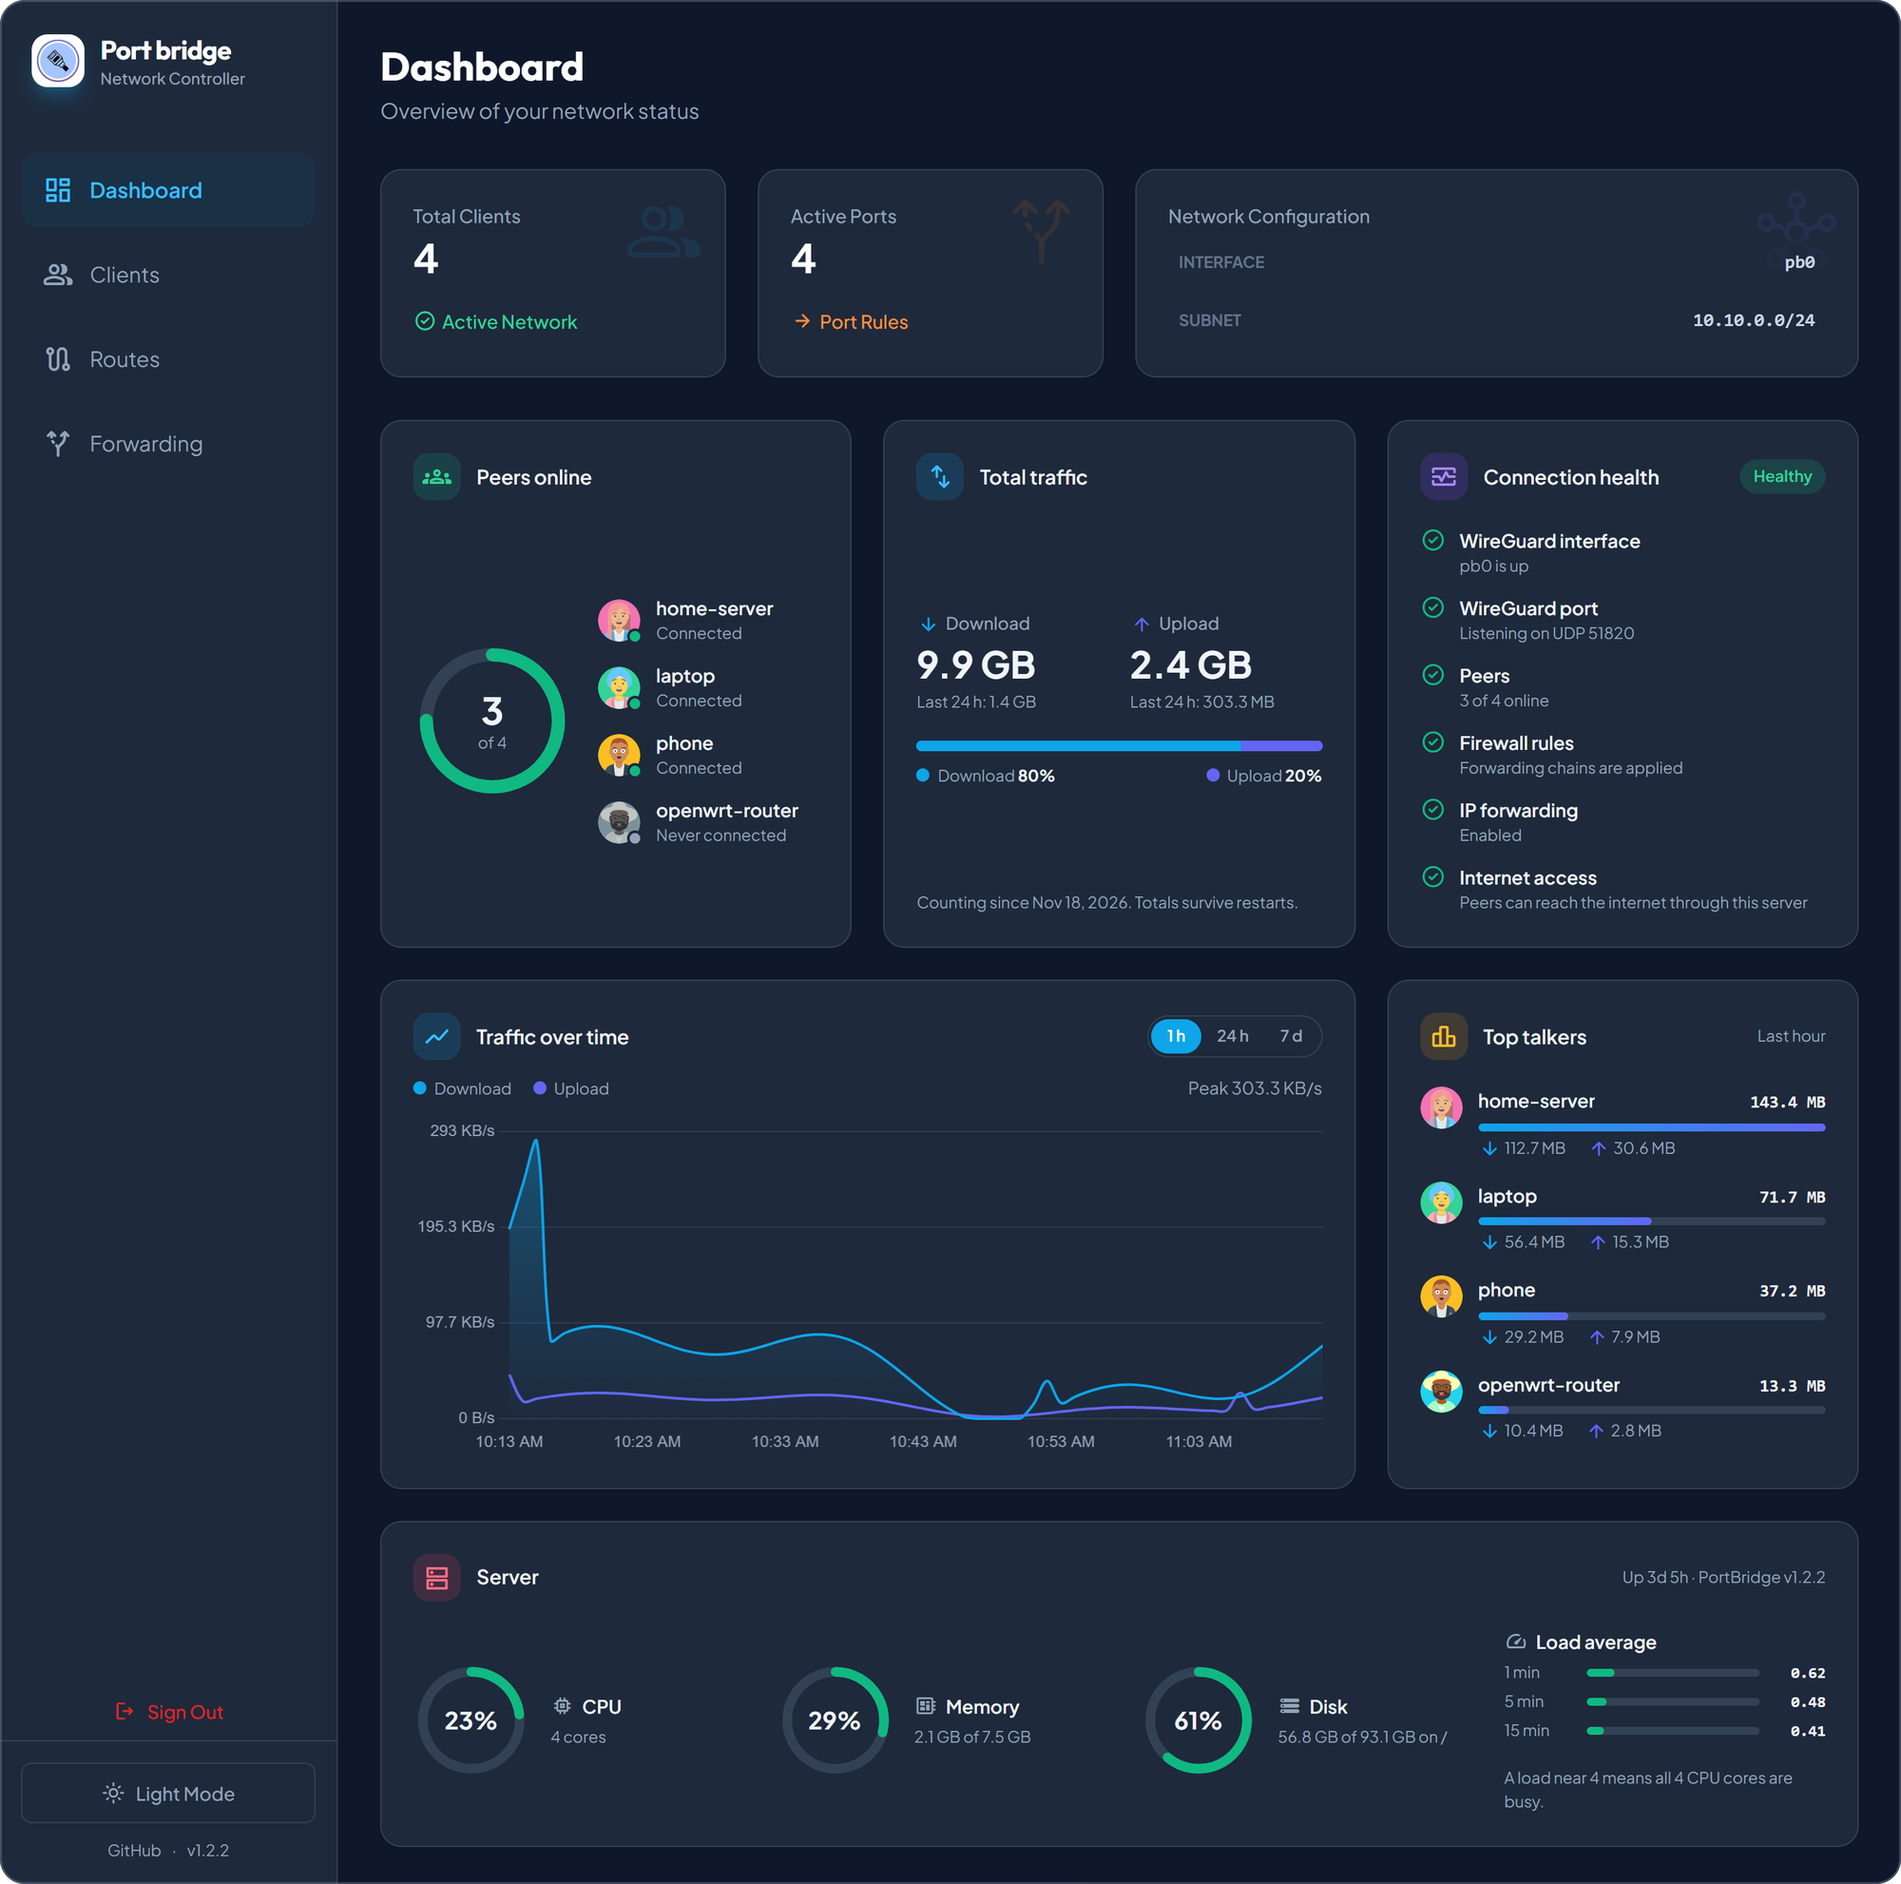
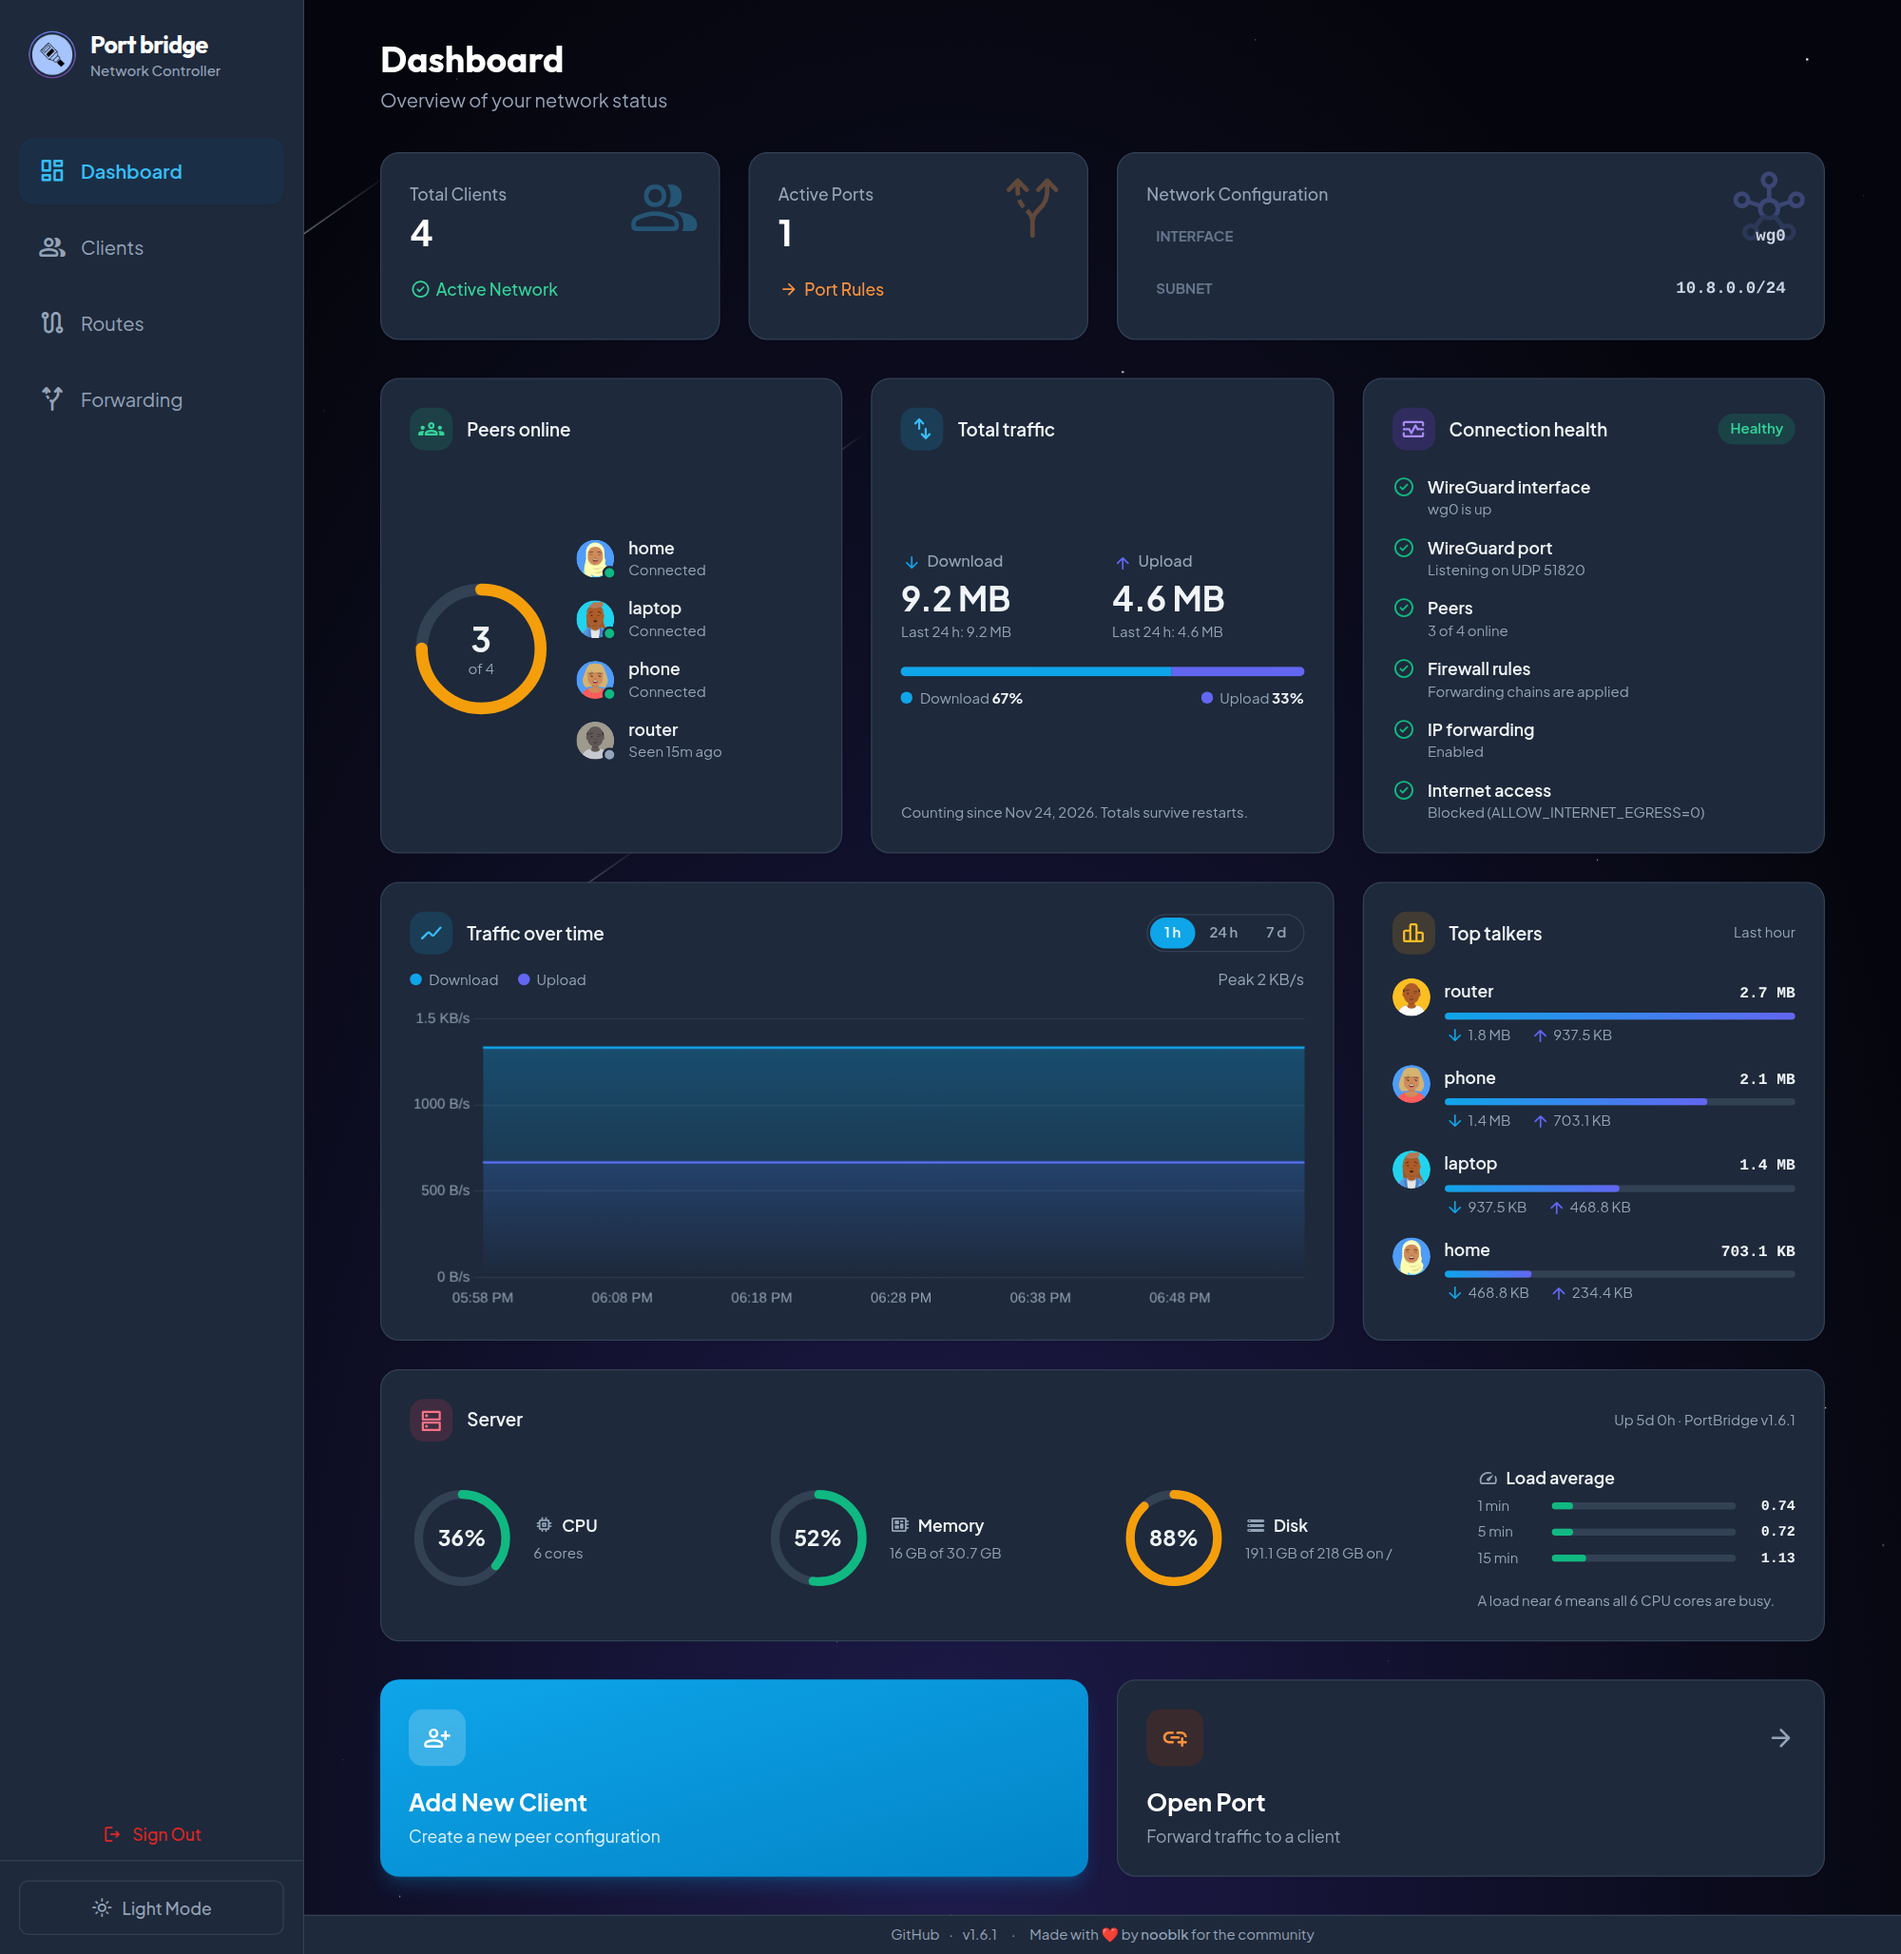
Refresh the README screenshots and generate them from the demo data (#15)
The screenshots showed the old look (no footer, no starry background). A new
script, npm run screenshots, builds the demo server (fixture peers, nothing real),
opens each page at 1600px wide, sizes the window to fit the whole page, and writes
the six images at 2000px wide, so they are easy to refresh after any UI change.
The footer shows the newest released version instead of the development build's
0.0.0-dev, and no "update available" banner appears.

Also notes the logo, tidy-up and screenshot changes in the 1.6.1 changelog.

diff --git a/frontend/scripts/screenshots.js b/frontend/scripts/screenshots.js
@@ -1,0 +1,146 @@
+#!/usr/bin/env node
+// Regenerates the README screenshots in images/screenshots/ from the demo server
+// (examples/e2e_server.rs: fixture peers, nothing real). Run from frontend/:
+//
+//   npm run screenshots
+//
+// Needs the browser from `npx playwright install chromium` and a Rust toolchain.
+// The pages are 1600 CSS pixels wide, saved at 2000 pixels (1.25x), as full
+// pages: the window is resized to fit each page's content, so nothing scrolls.
+const { spawn, execFileSync } = require("node:child_process");
+const fs = require("node:fs");
+const path = require("node:path");
+const { chromium } = require("@playwright/test");
+
+const ROOT = path.join(__dirname, "../..");
+const OUT = path.join(ROOT, "images/screenshots");
+const PORT = process.env.E2E_PORT || "43290";
+const BASE = `http://127.0.0.1:${PORT}`;
+const WIDTH = 1600;
+const SCALE = 2000 / WIDTH;
+
+/** The newest released version in the changelog, shown in the footer instead of "0.0.0-dev". */
+function latestVersion() {
+  const text = fs.readFileSync(path.join(ROOT, "CHANGELOG.md"), "utf8");
+  return /^## \[(\d+\.\d+\.\d+)\]/m.exec(text)?.[1] ?? "1.0.0";
+}
+
+/** Start the demo server and wait until it answers. Returns a function that stops it. */
+async function startServer() {
+  execFileSync("cargo", ["build", "--quiet", "--example", "e2e_server"], { cwd: ROOT, stdio: "inherit" });
+  const server = spawn(path.join(ROOT, "target/debug/examples/e2e_server"), [], {
+    cwd: ROOT,
+    env: { ...process.env, E2E_PORT: PORT },
+    stdio: "ignore",
+  });
+  for (let attempt = 0; attempt < 50; attempt += 1) {
+    try {
+      if ((await fetch(`${BASE}/login`)).ok) return () => server.kill();
+    } catch {
+      // Not listening yet.
+    }
+    await new Promise(resolve => setTimeout(resolve, 200));
+  }
+  server.kill();
+  throw new Error("The demo server did not start.");
+}
+
+/** Resize the window so the whole page fits with no scrolling, then let the layout settle. */
+async function fitToContent(page, contentSelector, extra = 0) {
+  await page.setViewportSize({ width: WIDTH, height: 3000 });
+  await page.waitForTimeout(300);
+  const height = await page.evaluate(
+    ([selector, padding]) => {
+      const content = document.querySelector(selector);
+      const footer = document.querySelector("footer");
+      return Math.ceil(content.getBoundingClientRect().height + (footer?.offsetHeight ?? 0) + padding);
+    },
+    [contentSelector, extra],
+  );
+  await page.setViewportSize({ width: WIDTH, height });
+  await page.waitForTimeout(700);
+}
+
+async function main() {
+  const version = latestVersion();
+  const stop = await startServer();
+  const browser = await chromium.launch({ channel: "chromium" });
+  try {
+    for (const scheme of ["light", "dark"]) {
+      const context = await browser.newContext({
+        viewport: { width: WIDTH, height: 900 },
+        deviceScaleFactor: SCALE,
+        colorScheme: scheme,
+      });
+      const page = await context.newPage();
+      // The demo server is a development build (0.0.0-dev), so answering with that
+      // same number means "nothing newer", and no "update available" banner shows.
+      await page.route("https://api.github.com/**", route =>
+        route.fulfill({
+          status: 200,
+          contentType: "application/json",
+          body: JSON.stringify({
+            tag_name: "v0.0.0",
+            html_url: "https://github.com/nooblk-98/portbridge/releases/tag/v0.0.0",
+            body: "",
+          }),
+        }),
+      );
+      await page.goto(`${BASE}/login`);
+      await page.getByPlaceholder("Enter admin password").fill("e2e-password");
+      await page.getByRole("button", { name: "Sign In" }).click();
+      await page.waitForURL(`${BASE}/`);
+
+      /** Capture the current page, with the released version shown instead of "0.0.0-dev". */
+      const shoot = async (file, heading, contentSelector = "main > div", extra = 0) => {
+        await page.getByRole("heading", { level: 2, name: heading }).waitFor();
+        await page.evaluate(label => {
+          const walker = document.createTreeWalker(document.body, NodeFilter.SHOW_TEXT);
+          for (let node = walker.nextNode(); node; node = walker.nextNode()) {
+            if (node.nodeValue.includes("0.0.0-dev")) node.nodeValue = node.nodeValue.replaceAll("0.0.0-dev", label);
+          }
+        }, version);
+        await fitToContent(page, contentSelector, extra);
+        await page.screenshot({ path: path.join(OUT, file) });
+        console.log(`wrote ${path.relative(ROOT, path.join(OUT, file))}`);
+      };
+
+      if (scheme === "dark") {
+        await page.goto(`${BASE}/`);
+        await page.waitForLoadState("networkidle");
+        await shoot("dashboard-dark.png", "Dashboard");
+      } else {
+        await page.goto(`${BASE}/`);
+        await page.waitForLoadState("networkidle");
+        await shoot("dashboard.png", "Dashboard");
+        await page.goto(`${BASE}/clients`);
+        await page.getByTestId("client-card").first().waitFor();
+        await shoot("clients.png", "Clients");
+        await page.goto(`${BASE}/routes`);
+        await page.getByRole("heading", { level: 3, name: "Route status" }).waitFor();
+        await shoot("routes.png", "Route access");
+        await page.goto(`${BASE}/forwarding`);
+        await page.getByTestId("forwarding-row").first().waitFor();
+        await shoot("forwarding.png", "Port Forwarding");
+
+        // Peer settings: open the dialog for the peer that advertises a route.
+        await page.goto(`${BASE}/clients`);
+        await page.getByTestId("client-card").first().waitFor();
+        await page.getByRole("button", { name: "Actions for home" }).click();
+        await page.getByRole("button", { name: "Peer settings" }).click();
+        await page.getByRole("dialog", { name: "Peer settings" }).waitFor();
+        // The dialog sits in an overlay with 32px of padding above and below it.
+        await shoot("peer-settings.png", "Clients", '[aria-labelledby="peer-settings-title"] form', 64);
+      }
+      await context.close();
+    }
+  } finally {
+    await browser.close();
+    stop();
+  }
+}
+
+main().catch(error => {
+  console.error(error);
+  process.exit(1);
+});

diff --git a/frontend/README.md b/frontend/README.md
@@ -76,3 +76,19 @@ To prove a styling change did not alter how anything looks, compare screenshots
 VISUAL=1 npx playwright test visual --update-snapshots   # on the old code
 VISUAL=1 npx playwright test visual                      # on the new code
 ```
+
+## README screenshots
+
+The screenshots in `images/screenshots/` are generated from the demo data (the
+same server the browser tests use), so they never show real peers and are easy to
+refresh after a UI change:
+
+```sh
+cd frontend
+npm run screenshots
+```
+
+It builds the demo server, opens each page at 1600 pixels wide, resizes the window
+to fit the whole page, and writes the six images at 2000 pixels wide. The footer
+shows the newest version in `CHANGELOG.md` rather than the development build's
+`0.0.0-dev`.

diff --git a/CHANGELOG.md b/CHANGELOG.md
@@ -15,6 +15,12 @@ notes for its version.
   Anything else, and every development build, is still revalidated each time.
 - **A development build says so.** A build that is not a release reports
   `0.0.0-dev` instead of the made-up `0.1.0`, in the footer and `--version`.
+- **Faster first load.** The logo (also the favicon) was a 657 KB SVG that only
+  wrapped a PNG; it is now an 18 KB PNG.
+- **Tidier source.** The dashboard script is split into one file per area, the
+  Python-era leftovers and unused code are gone, and the README screenshots show
+  the current look. `npm run screenshots` in `frontend/` regenerates them from the
+  demo data.
 
 ### Fixed
 
